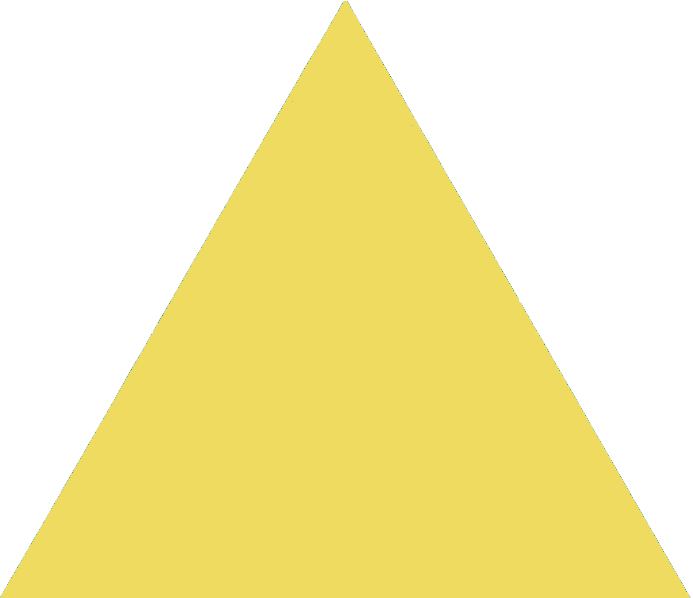
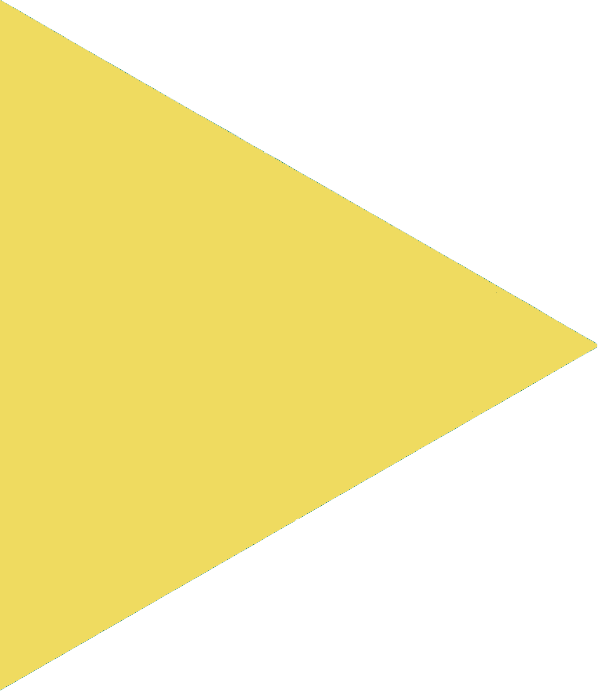
Fixed the triangle to the side

diff --git a/about_me_profile.css b/about_me_profile.css
@@ -29,11 +29,9 @@ body {
 } 
 
 .image-triangle {
-    transform: rotate(90deg);
     width: 100%;
     height: 100%;
     z-index: -1;
-    /* object-fit: cover; */
     top: 0;
     left: 0;
     display: flex;
@@ -170,6 +168,10 @@ a:hover {
         flex-wrap: wrap;
         flex-direction: row-reverse;
         align-content: center;
+    }
+
+    .image-triangle {
+        width: 87%;
     }
 
     .wrapper-girl {
